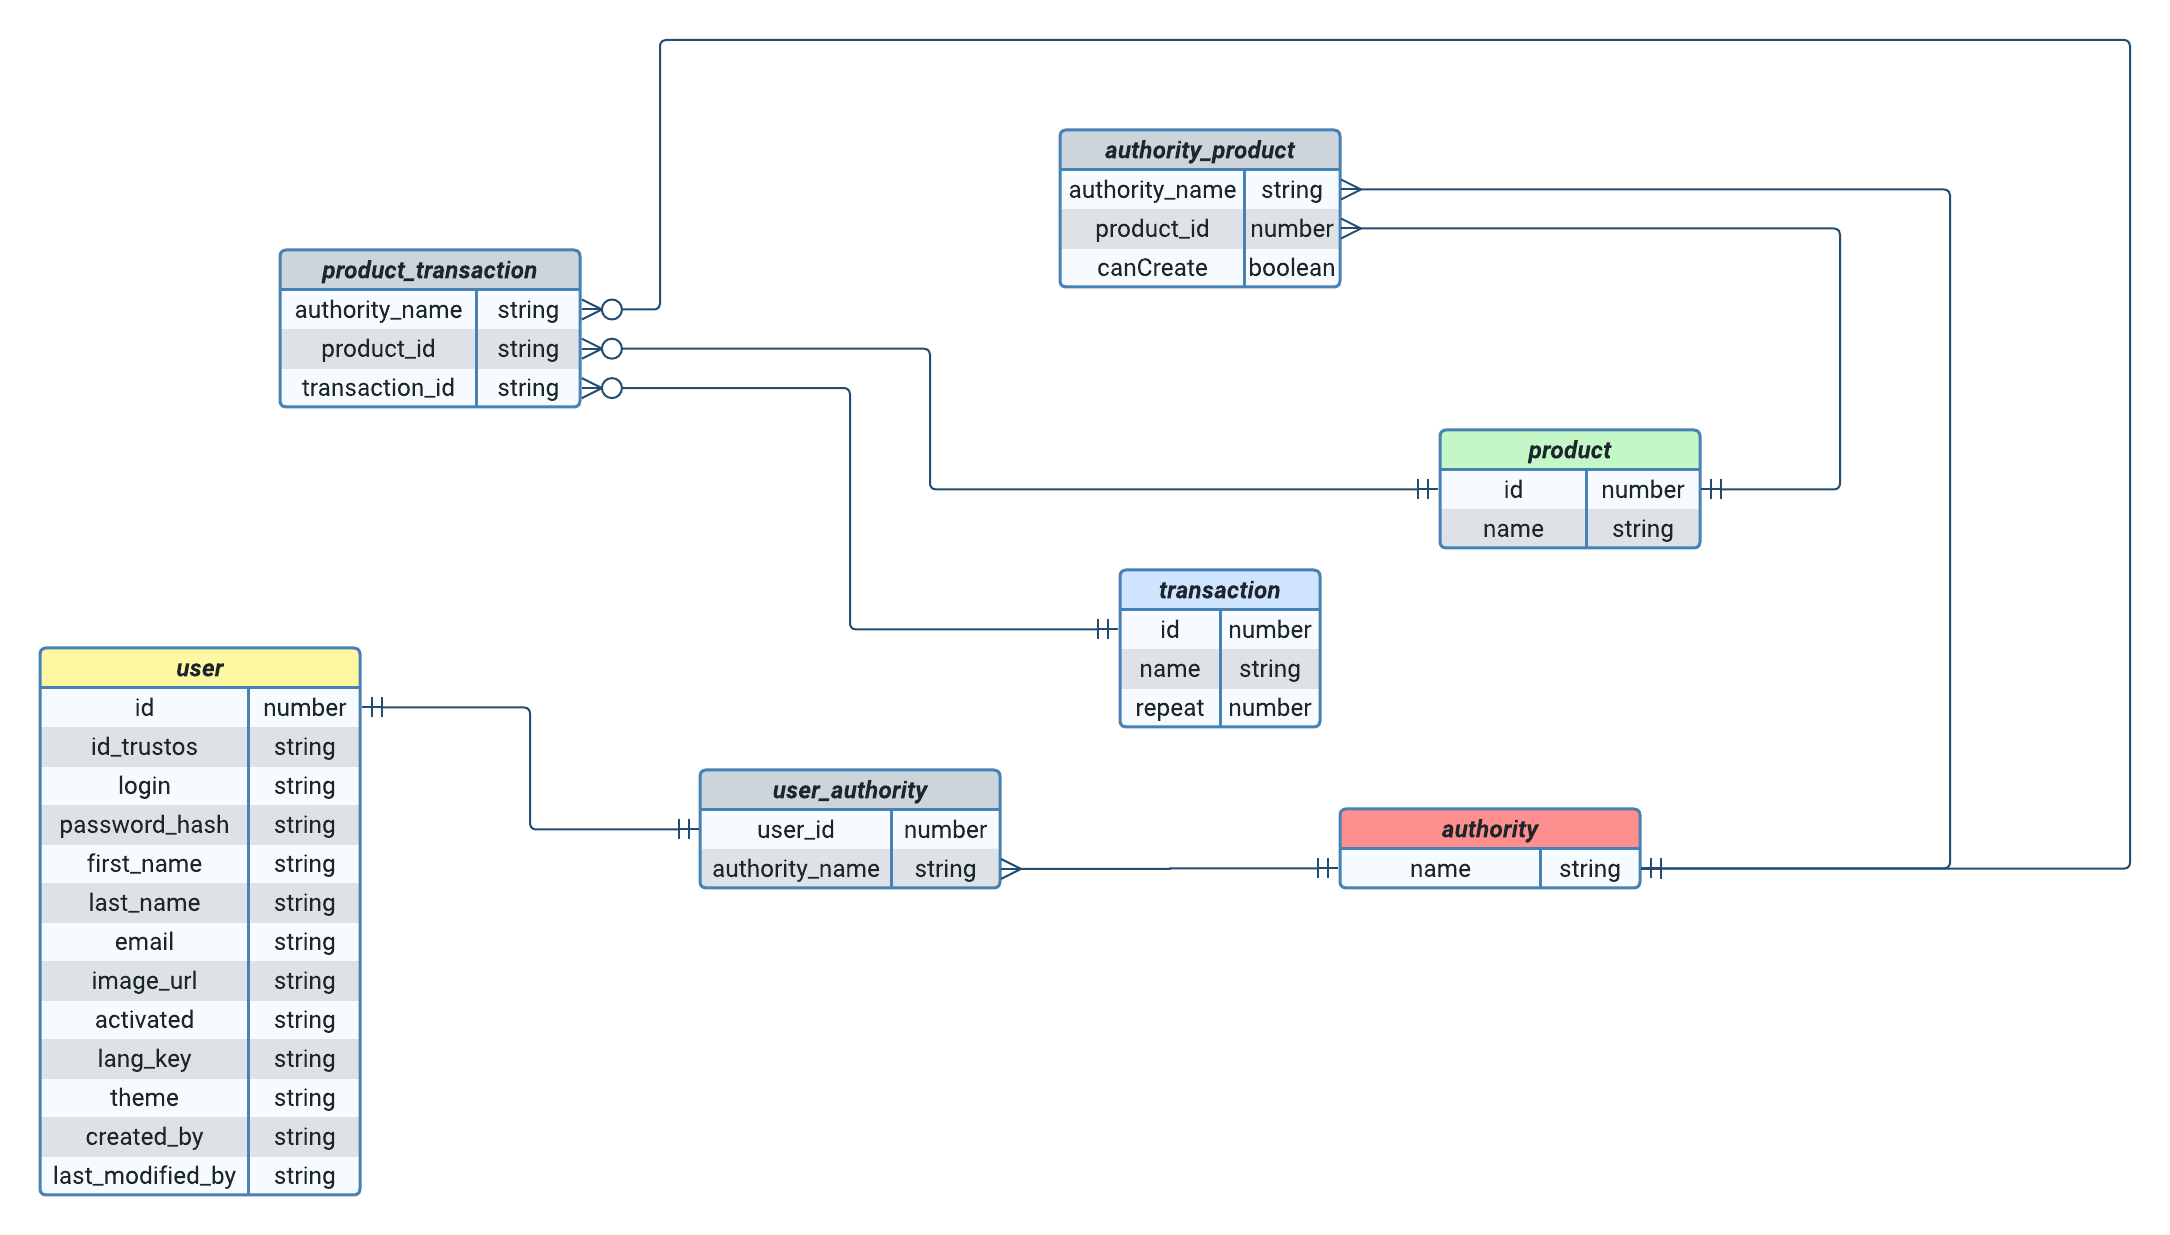
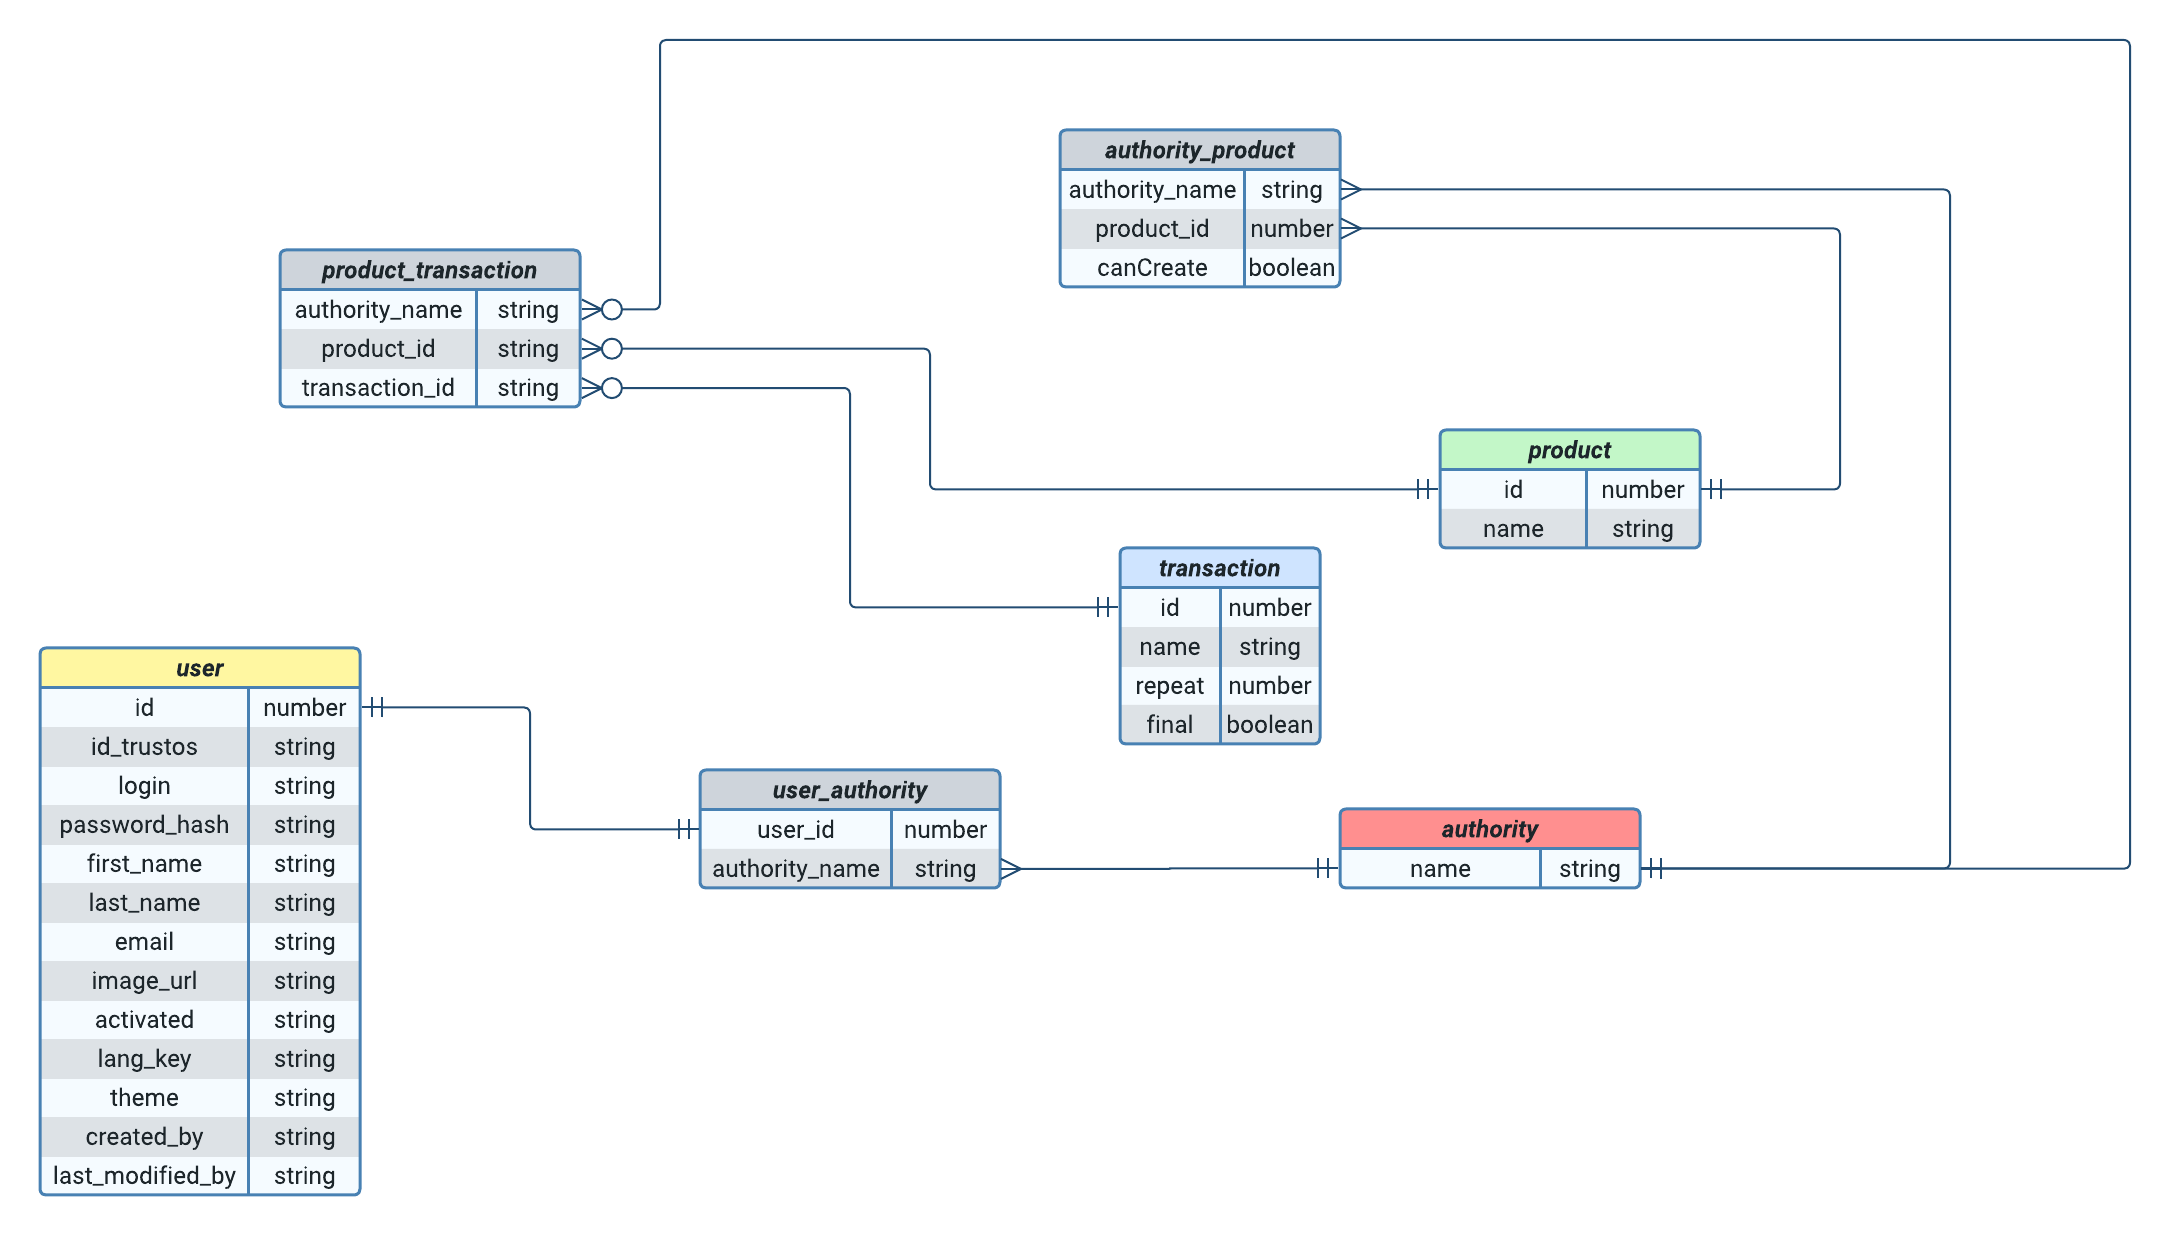
Cambios en filtrado
Ahora se muestra correctamente lo que puede ver el usuario logeado, asi como en la eleccion de un asset cuando se realiza una accion solo se muestran los asset del tipo que se va a seleccionar.

Tambien se ha actualizado la estructura de la base de datos.

Changed region(s): [[0.4014, 0.4308, 0.6175, 0.6154]]

diff --git a/src/main/webapp/app/modules/my-assets/my-assets-screen.sagas.js b/src/main/webapp/app/modules/my-assets/my-assets-screen.sagas.js
@@ -23,12 +23,14 @@ export function* getAssets(api) {
   yield getAssetCreate(api)
   const productsView = yield getAssetView(api)
 
+  console.log(productsView)
+
   let assetsOwner = []
   let assetsAuthorised = []
 
   if (showOwner) {
     assetsOwner = yield call(api.getAssets, false)
-    assetsOwner.data = assetsOwner.data.filter((assetId) => assetId !== 'Ternero#xcryscrq34' && productsView.some((product) => assetId.includes(product.name) ))
+    assetsOwner.data = assetsOwner.data.filter((assetId) => assetId !== 'Ternero#xcryscrq34' && productsView.some((product) => assetId.split("@", 1) == product.name ))
     assetsOwner = yield putIsAuthorisedFlag(assetsOwner.data, false)
   }
 

diff --git a/src/main/webapp/app/modules/asset-action/asset-action-screen.js b/src/main/webapp/app/modules/asset-action/asset-action-screen.js
@@ -25,7 +25,7 @@ function Step(props){
                 
                 const listOptions = 
                     [...props.assets]
-                        .filter((asset) => asset.assetId.includes(element.type)) // filter by type 
+                        .filter((asset) => asset.assetId.split("@", 1) == element.type) // filter by type 
                         .map((asset) => (
                             { value: asset.assetId, text: asset.assetId }
                         ))
